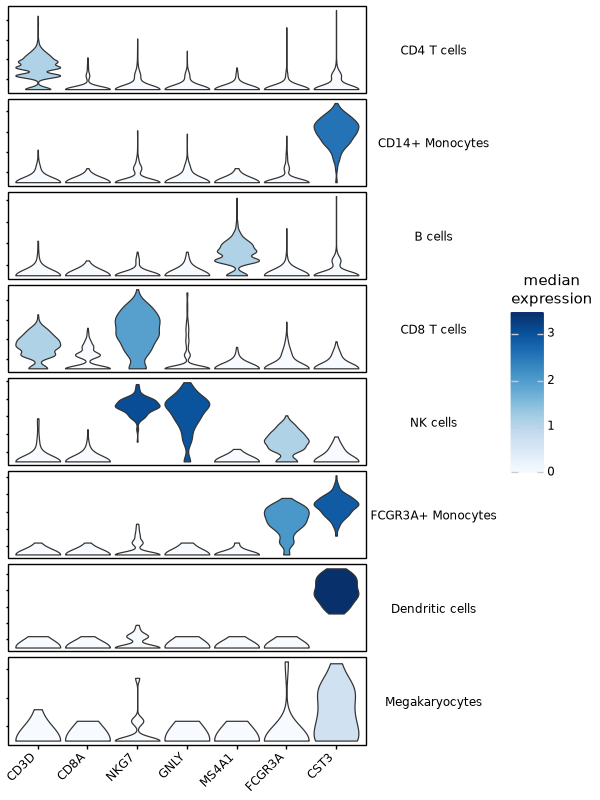
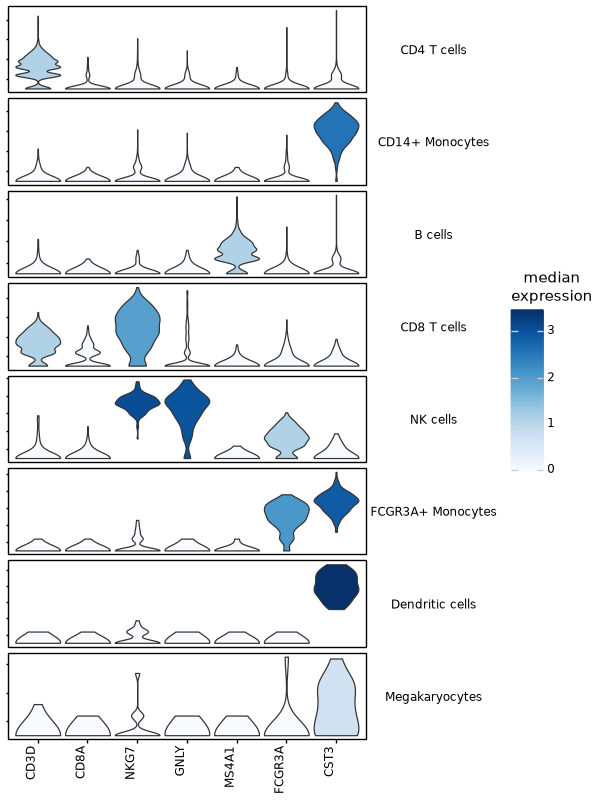
fix(stacked violin): vertical labels in both layouts, as in Scanpy
45 degree gene labels hang past the left edge for long first names.

diff --git a/src/ggann/distributions.py b/src/ggann/distributions.py
@@ -896,7 +896,7 @@ def plot_stacked_violin(
     downsample: int | None = None,
     random_state: int | None = 0,
     log: bool = False,
-    rotation: float | None = None,
+    rotation: float = 90,
     swap_axes: bool = False,
     stripplot: bool = False,
     yticklabels: bool = False,
@@ -934,10 +934,10 @@ def plot_stacked_violin(
         Downsampling and jitter seed; ``None`` is nondeterministic.
     log : bool
         Plot ``log1p(expression)``; zeros stay at zero.
-    rotation : float, optional
-        X-label angle in degrees. Default 45 for gene labels and 90 for group
-        labels (``swap_axes=True``). Vertical labels, as in Scanpy, never hang
-        past the left edge; at smaller angles a long first label can.
+    rotation : float, default=90
+        X-label angle in degrees (gene labels, or group labels with
+        ``swap_axes=True``). Vertical labels, as in Scanpy, never hang past the
+        left edge; at smaller angles a long first label can.
     swap_axes : bool, default=False
         Genes as rows and groups along x (Scanpy's ``swap_axes=True`` layout).
     stripplot : bool
@@ -999,7 +999,7 @@ def plot_stacked_violin(
         + labs(x="", y="", fill="median\n" + ("log1p(expr)" if log else "expression"))
         + _family_theme("distribution")
         + theme(strip_text_y=element_text(angle=0))
-        + pe.rotate_x_text((90 if swap_axes else 45) if rotation is None else rotation)
+        + pe.rotate_x_text(rotation)
     )
     if not yticklabels:
         plot = plot + theme(axis_text_y=element_blank(), axis_ticks_major_y=element_blank())

diff --git a/CHANGELOG.md b/CHANGELOG.md
@@ -92,7 +92,7 @@ Check these before re-running a figure made with a pre-release build.
   `standard_scale=None`, `plot_variance_ratio(n_pcs=30, log=False)`,
   `plot_highest_expr_genes` 30 genes.
 - `plot_stacked_violin` fills each violin by group median expression and draws
-  groups as rows with genes along x (labels at 45°), as Scanpy does by default.
+  groups as rows with genes along x (vertical gene labels), as Scanpy does by default.
   Pass `swap_axes=True` for the earlier layout: genes as rows, groups along x
   with labels at 90°.
 - Without stored `adata.uns["<key>_colors"]`, discrete scales use Scanpy's
